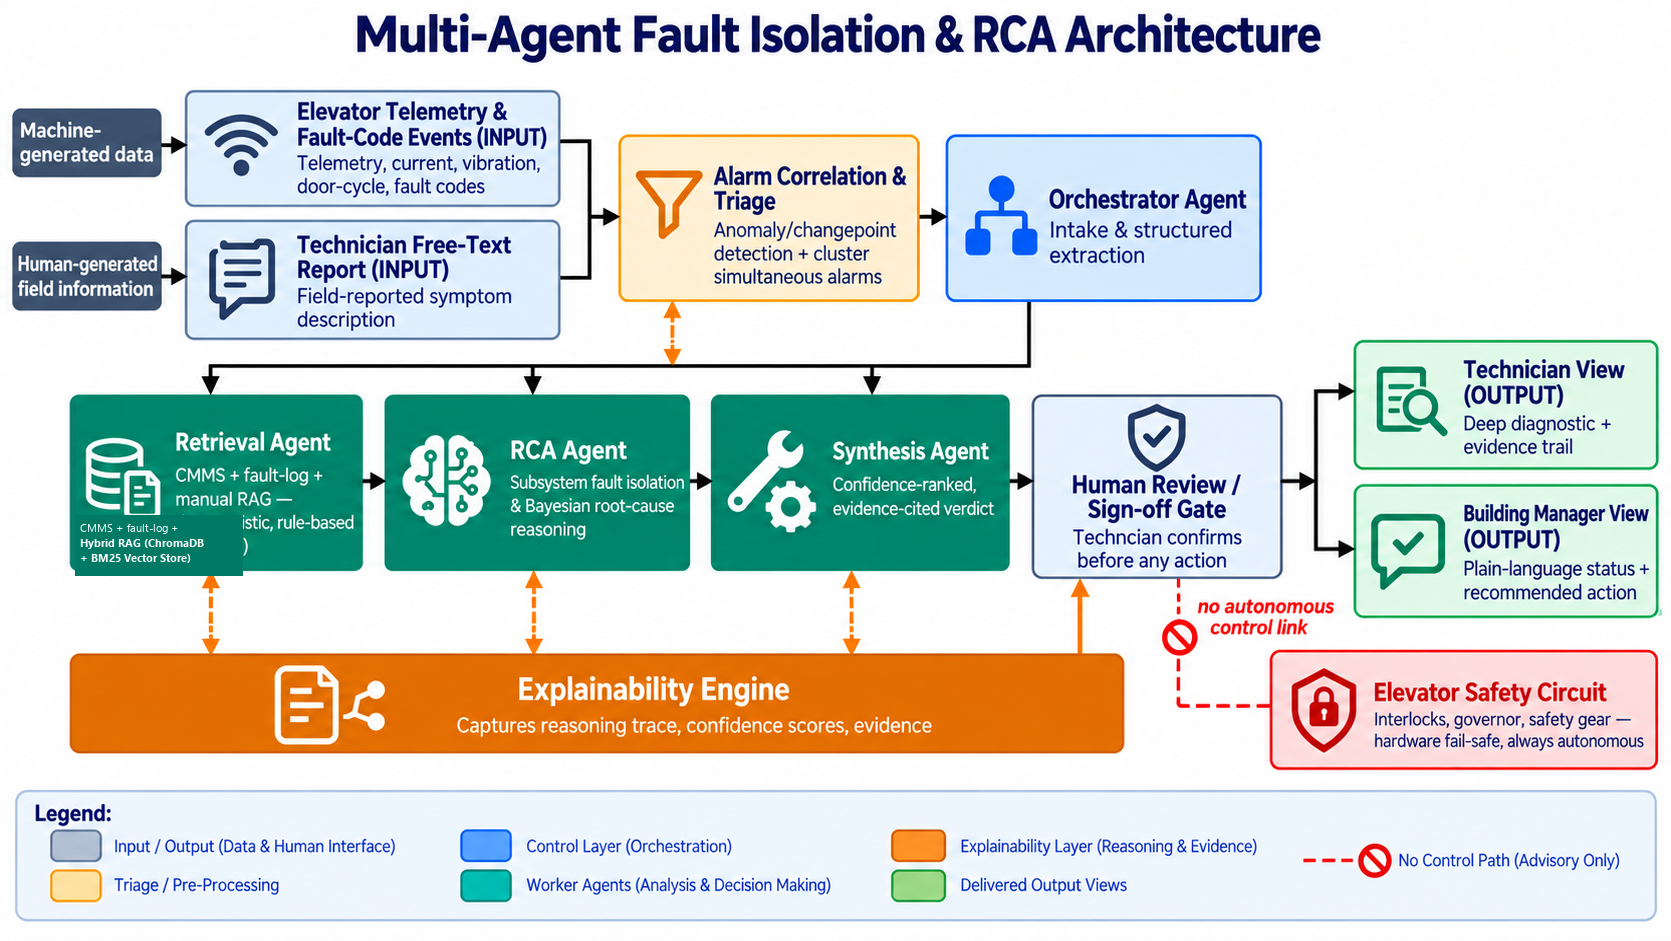
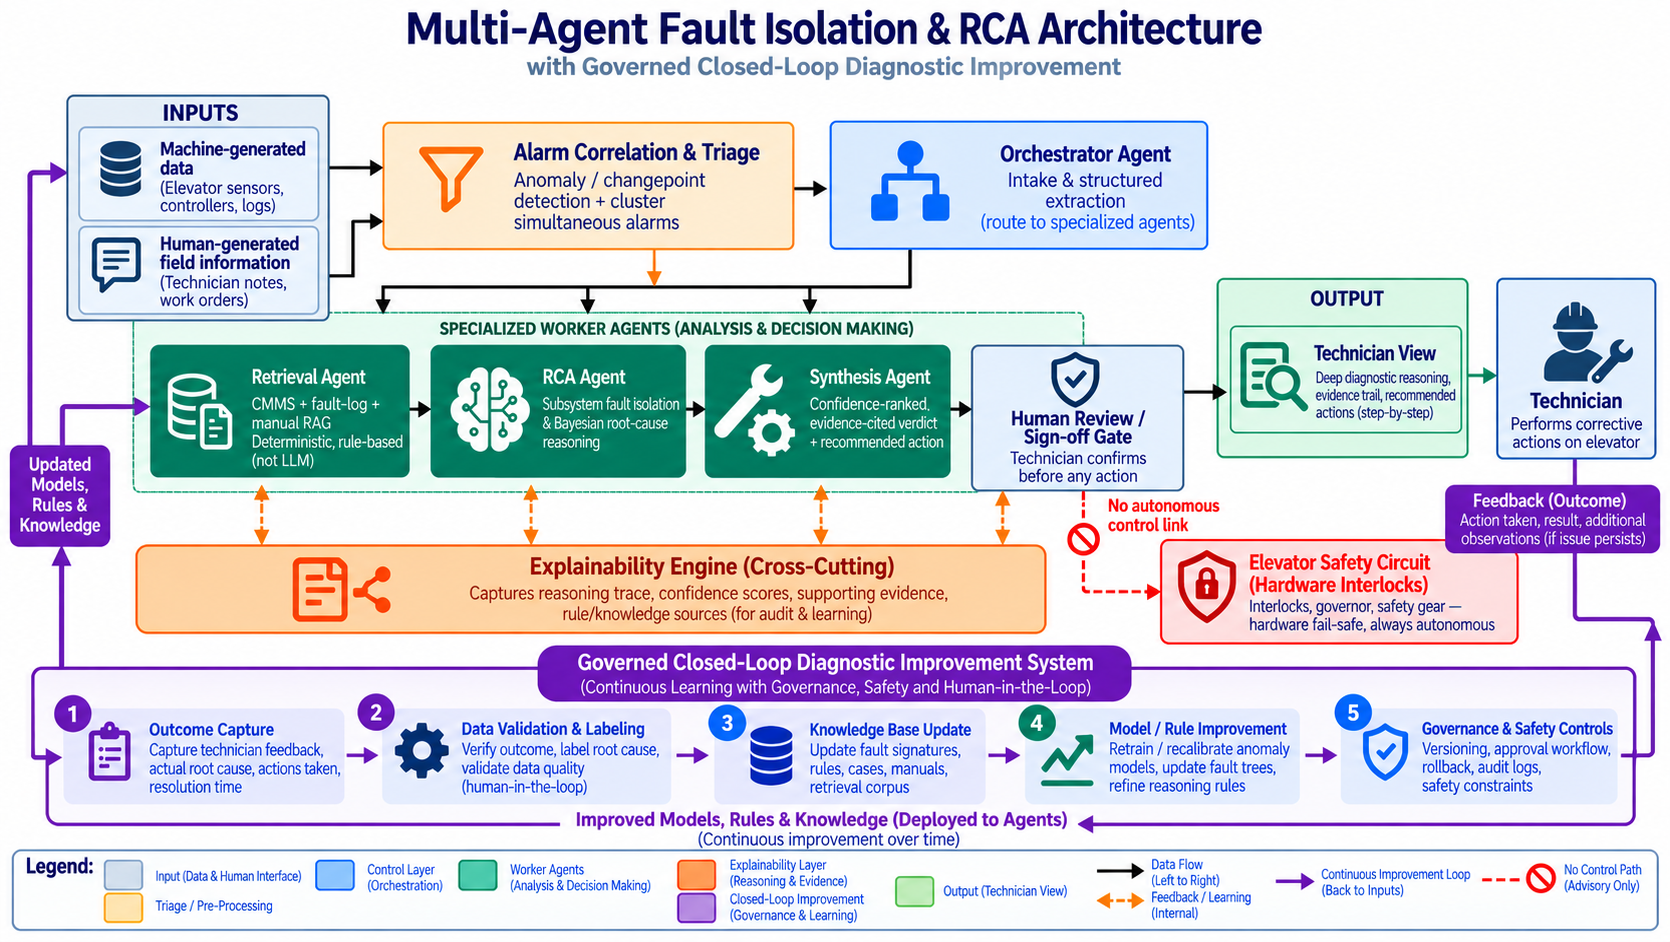
docs: fix Mermaid syntax rendering on GitHub and update Figures 6 & 11 with latest closed-loop diagrams

diff --git a/README.md b/README.md
@@ -81,7 +81,7 @@ In strict compliance with international elevator safety standards (**EN 81-20/50
 <p align="center">
   <img src="docs/images/05_modular_architecture.png" alt="ElevateRCA Modular Diagnostic & RCA Architecture" width="95%" style="border-radius: 8px; box-shadow: 0 4px 6px -1px rgba(0,0,0,0.1);" />
   <br>
-  <em>Figure 6: ElevateRCA Modular Diagnostic Architecture — Multi-tier interaction between Input Ingestion, Triage, Hybrid RAG, Bayesian Inference, and Explainability Engine</em>
+  <em>Figure 6: Multi-Agent Fault Isolation & RCA Architecture — Multi-tier interaction with Governed Closed-Loop Diagnostic Improvement</em>
 </p>
 
 ```mermaid
@@ -181,7 +181,7 @@ flowchart TD
 ```mermaid
 flowchart LR
     subgraph S1["Stage 1: Triage"]
-        IN1["Telemetry Ingestion"] --> EWMA["EWMA Smoothing<br/>(α = 0.25)"]
+        IN1["Telemetry Ingestion"] --> EWMA["EWMA Smoothing<br/>(alpha = 0.25)"]
         EWMA --> CUSUM["Two-Sided CUSUM<br/>(S_H, S_L Drift)"]
         CUSUM --> GATE["Sensor Quality Gating<br/>(Exclude bad/missing)"]
     end
@@ -263,11 +263,11 @@ A single symptom (such as *Motor Overcurrent E101*) can stem from multiple compe
 graph TD
     SYMPTOM["Observed Symptom: Drive Motor Overcurrent Trip (E101)"]
     
-    H1["H1: Inverter IGBT Switch Failure<br/>Prior: 25% | Posterior: 98%"]
-    H2["H2: Stator Winding Inter-Turn Short<br/>Prior: 20% | Posterior: 1%"]
-    H3["H3: Mechanical Hoistway Guide Jam<br/>Prior: 20% | Posterior: 0% (RULED OUT)"]
-    H4["H4: Mechanical Brake Drag / Delayed Pick<br/>Prior: 15% | Posterior: 1%"]
-    H5["H5: V3F Inverter Parameter Mismatch<br/>Prior: 20% | Posterior: 0%"]
+    H1["H1: Inverter IGBT Switch Failure<br/>Prior: 25% — Posterior: 98%"]
+    H2["H2: Stator Winding Inter-Turn Short<br/>Prior: 20% — Posterior: 1%"]
+    H3["H3: Mechanical Hoistway Guide Jam<br/>Prior: 20% — Posterior: 0% [RULED OUT]"]
+    H4["H4: Mechanical Brake Drag / Delayed Pick<br/>Prior: 15% — Posterior: 1%"]
+    H5["H5: V3F Inverter Parameter Mismatch<br/>Prior: 20% — Posterior: 0%"]
 
     SYMPTOM --> H1
     SYMPTOM --> H2
@@ -275,11 +275,11 @@ graph TD
     SYMPTOM --> H4
     SYMPTOM --> H5
 
-    E1["(+) High IGBT Junction Temp (+55°C)"] -->|Likelihood x4.0| H1
+    E1["(+) High IGBT Junction Temp (+55 deg C)"] -->|Likelihood x4.0| H1
     E2["(+) Rapid Current Rise (di/dt > 120A/ms)"] -->|Likelihood x3.5| H1
     
-    E3["(-) Phase Resistance Imbalance < 0.05Ω"] -->|Likelihood x0.1| H2
-    E4["(-) Zero Car Vibration Shock (0.08g Nominal)"] -->|Likelihood x0.01 (Contradiction)| H3
+    E3["(-) Phase Resistance Imbalance < 0.05 Ohm"] -->|Likelihood x0.1| H2
+    E4["(-) Zero Car Vibration Shock (0.08g Nominal)"] -->|Likelihood x0.01 - Contradiction| H3
     E5["(-) Brake Coil Current Pick Fast (120ms)"] -->|Likelihood x0.1| H4
 ```
 
@@ -323,7 +323,7 @@ ElevateRCA implements an interactive, multi-iteration diagnostic state machine i
 <p align="center">
   <img src="docs/images/11_end_to_end_sequence_flow.png" alt="End-to-End RCA Sequence Flow" width="95%" style="border-radius: 8px; box-shadow: 0 4px 6px -1px rgba(0,0,0,0.1);" />
   <br>
-  <em>Figure 11: End-to-End RCA Sequence Flow Timeline — From raw sensor streaming to real-time isolation, reasoning, and human authorization</em>
+  <em>Figure 11: End-to-End RCA Sequence Flow Timeline — From elevator fault event to actionable output with governed closed-loop diagnostic improvement</em>
 </p>
 
 ```mermaid
@@ -341,7 +341,7 @@ stateDiagram-v2
     DIAGNOSTIC_CONFIRMATION --> CORRECTIVE_ACTION: Iteration 3 - Physical Test Outcome Recorded
     
     CORRECTIVE_ACTION --> POST_REPAIR_VALIDATION: Execute OEM Component Repair
-    POST_REPAIR_VALIDATION --> CLOSED: Multi-Cycle Validation Passed (e.g. 5/5 Cycles)
+    POST_REPAIR_VALIDATION --> CLOSED: Multi-Cycle Validation Passed [5 of 5 Cycles]
     POST_REPAIR_VALIDATION --> RCA_REOPENED: Validation Failed or Recurrence Observed
     
     RCA_REOPENED --> RCA_REVISED: Loop to Next Competing Hypothesis
@@ -388,11 +388,11 @@ sequenceDiagram
     CaseMgr->>CaseMgr: NLP Evidence Extraction & Re-score Hypotheses (Iteration 2)
     CaseMgr-->>UI: Updated Hypotheses & Recommended Confirmation Test
 
-    Technician->>UI: Record Physical Diagnostic Test Outcome (e.g. TEST-TRACK-01 = FAIL)
+    Technician->>UI: Record Physical Diagnostic Test Outcome [TEST-TRACK-01 = FAIL]
     UI->>CaseMgr: POST /api/v1/cases/{id}/diagnostic-test
     CaseMgr->>CaseMgr: Confirm Leading Root Cause & Transition to CORRECTIVE_ACTION
 
-    Technician->>UI: Submit Post-Repair Validation (5 Cycles Passed, No Recurrence)
+    Technician->>UI: Submit Post-Repair Validation [5 Cycles Passed, No Recurrence]
     UI->>CaseMgr: POST /api/v1/cases/{id}/post-repair-validation
     CaseMgr->>CaseMgr: Case Transition to CLOSED
 
